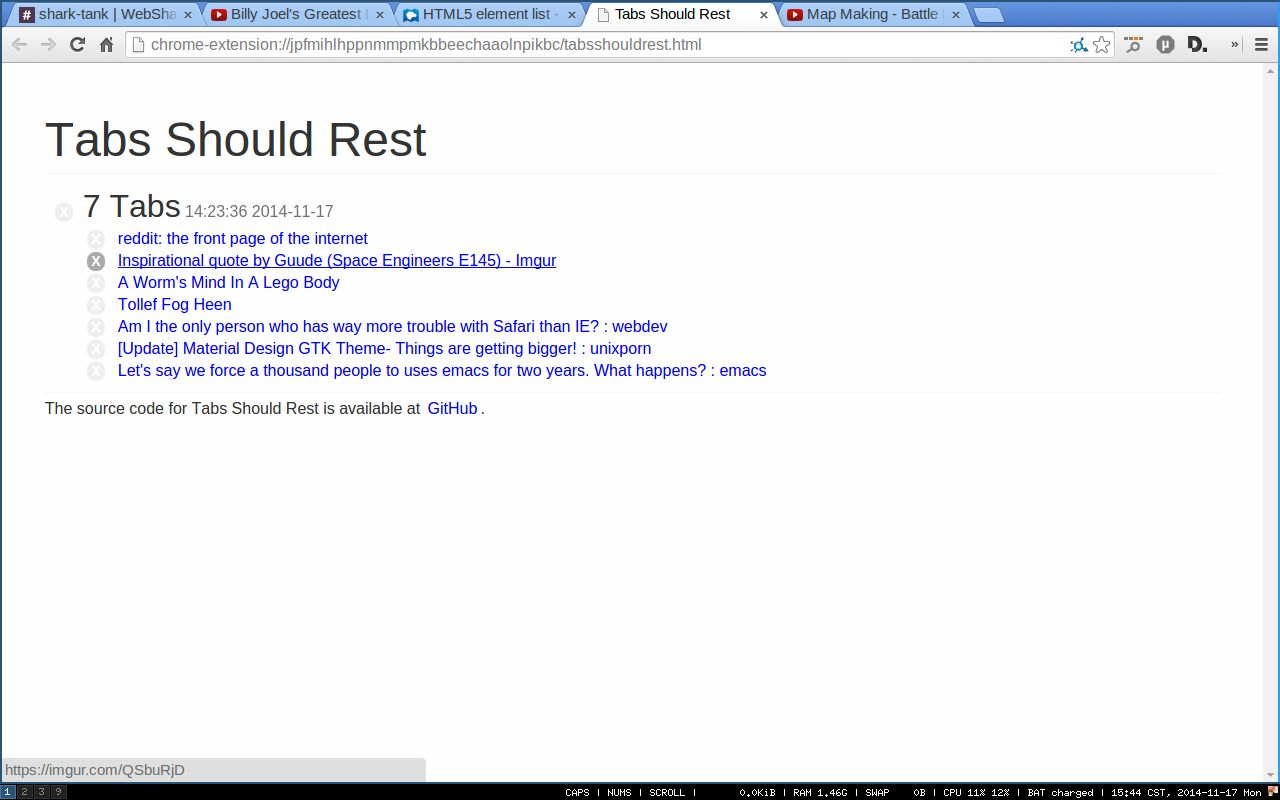
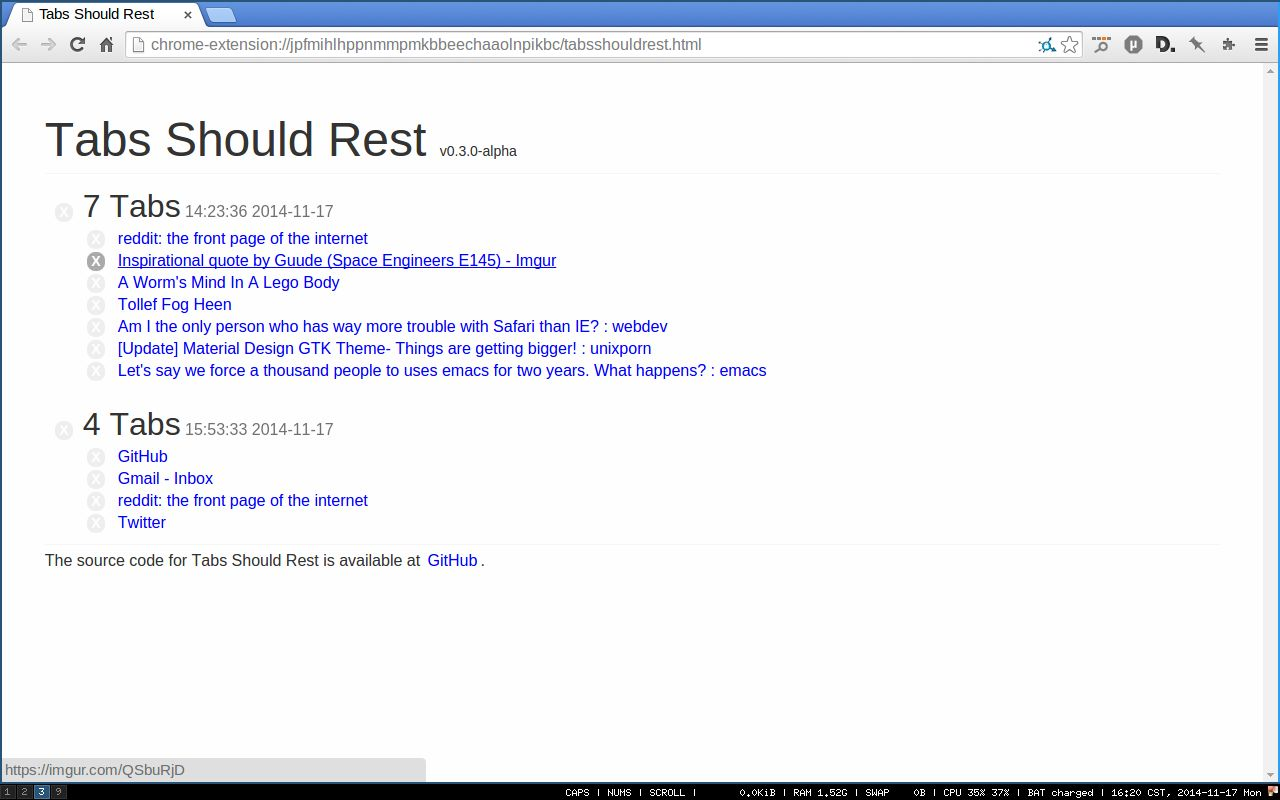
Changes to interface, v0.3.0 now

diff --git a/tabsshouldrest-ui.js b/tabsshouldrest-ui.js
@@ -55,30 +55,28 @@
     };
 
     tabs.view = function () {
-        return m('div.group', [
-            // foreach tab group
-            tabs.vm.list.map(function (group, i) {
-                return [
-                    m('div.group-title', [
+        // foreach tab group
+        return tabs.vm.list.map(function (group, i) {
+            return m('div.group', [
+                m('div.group-title', [
+                    m('span.delete-link', { onclick: function () {
+                        tabs.vm.rmGroup(i);
+                    } }),
+                    m('span.group-amount', group.tabs().length + ' Tabs'),
+                    ' ',
+                    m('span.group-date', moment(group.date()).format('HH:mm:ss YYYY-MM-DD'))
+                ]),
+                // foreach tab
+                m('ul', group.tabs().map(function (tab, ii) {
+                    return m('li', [
                         m('span.delete-link', { onclick: function () {
-                            tabs.vm.rmGroup(i);
+                            tabs.vm.rmTab(i, ii);
                         } }),
-                        m('span.group-amount', group.tabs().length + ' Tabs'),
-                        ' ',
-                        m('span.group-date', moment(group.date()).format('HH:mm:ss YYYY-MM-DD'))
-                    ]),
-                    // foreach tab
-                    m('ul', group.tabs().map(function (tab, ii) {
-                        return m('li', [
-                            m('span.delete-link', { onclick: function () {
-                                tabs.vm.rmTab(i, ii);
-                            } }),
-                            m('a', { href: tab.url }, tab.title)
-                        ]);
-                    }))
-                ];
-            })
-        ]);
+                        m('a', { href: tab.url }, tab.title)
+                    ]);
+                }))
+            ]);
+        });
     };
 
     // init the app

diff --git a/tabsshouldrest.html b/tabsshouldrest.html
@@ -11,7 +11,7 @@
 <body>
 	<div id="container">
 		<header>
-			<h1>Tabs Should Rest</h1>
+			<h1>Tabs Should Rest <span style="font-size: .3em;">v0.3.0-alpha</span></h1>
 		</header>
 		<div id="groups">
 		</div>

diff --git a/tabsshouldrest.css b/tabsshouldrest.css
@@ -24,8 +24,11 @@ body {
 	padding-left: 10px;
 }
 
-.group {
+.group:first-of-type {
 	margin-top: 10px;
+}
+.group {
+	margin-top: 20px;
 }
 
 .group-amount {

diff --git a/README.md b/README.md
@@ -10,9 +10,7 @@ OneTab.  For example OneTab runs constantly, while this runs only when it's
 called or the tab groups page is displayed.  (Event pages [this] vs. persistent
 background page [OneTab].)
 
-Currently it is useable but still in development, stuff might break and the
-useable parts are only core parts, the interface is still very
-crude/non-existent.
+Currently it is near to completion but still in development, stuff might break.
 
 I am not yet going to provide usage or installation instructions as this is not
 yet ready for use, and at this point if you want to use it you really should be

diff --git a/NEWS.md b/NEWS.md
@@ -2,6 +2,13 @@
 
 All changes that would affect users will be listed in this file.
 
+## 0.3.0-alpha - 2014-11-17
+
+This version provides a nice looking interface to the saved tab groups.
+
+Pretty near to the full release now.  Some kinks still have to be figured out
+and refactoring is still to come.
+
 ## 0.2.0-alpha - 2014-11-17
 
 Implemented an MVC interface using Mithril.js.  Spent all yesterday studying and
